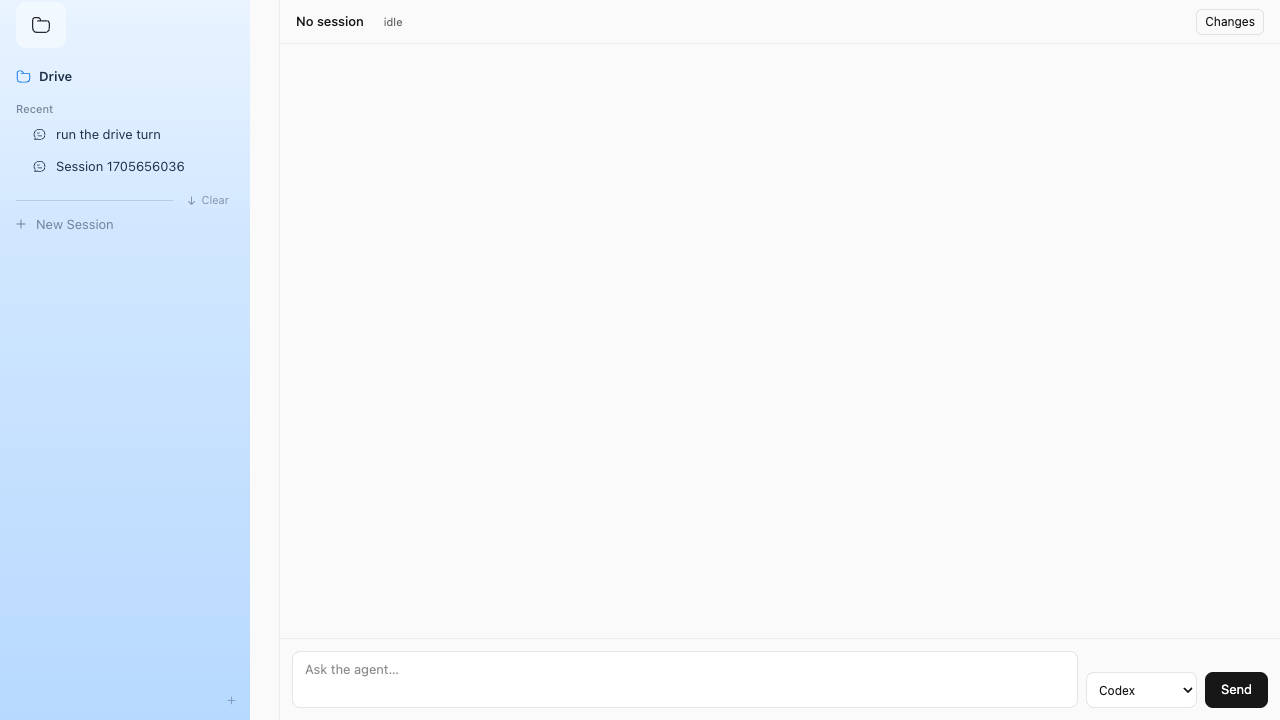
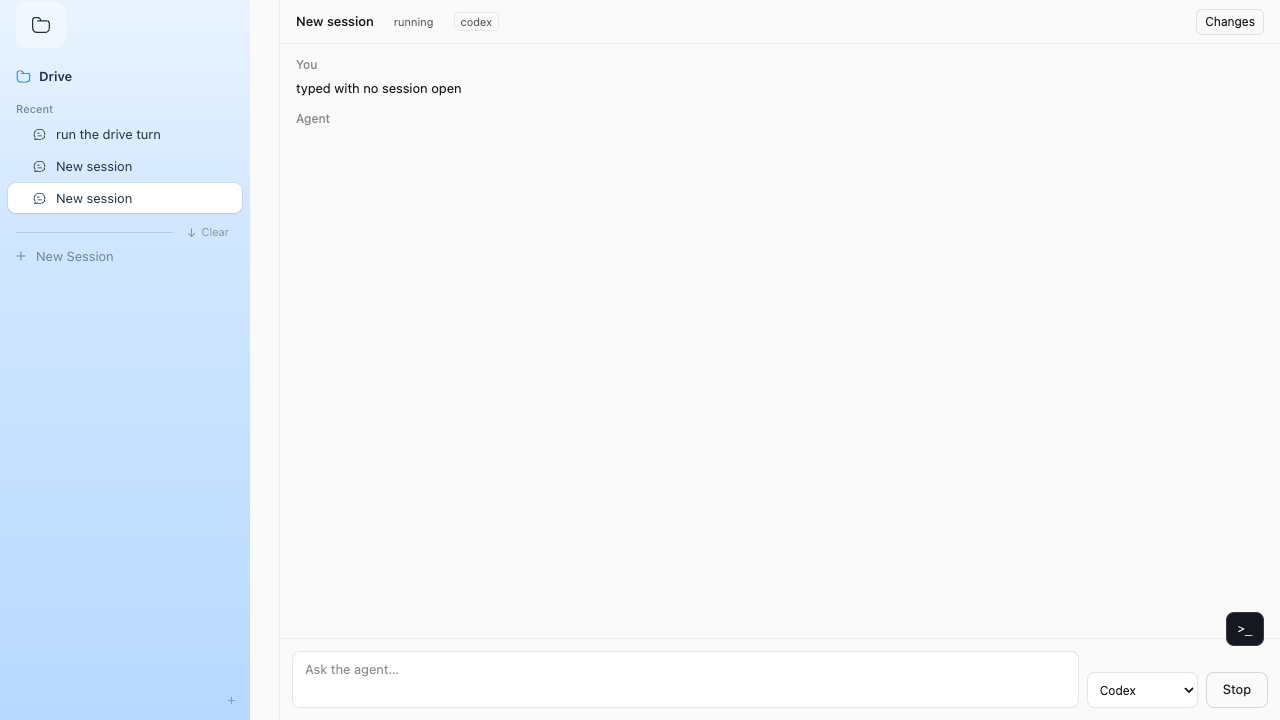
fix(ui): the empty page says what to do, and typing there does it
From a screenshot of the no-session page, four issues in one pass:

- The main area was a blank canvas that read as broken. It now carries an
  empty state naming both paths: type below, or pick from the sidebar.
- The composer pretended to work with no session behind it. Typing there
  now IS the path: the prompt creates a session in the active profile's
  workspace with the picked agent, navigates to it, and sends itself on
  arrival (sessionStorage across the navigation, retried until the socket
  can carry it) — the convention every LLM surface follows. The engine's
  FNV-1a id derivation is duplicated in the island, marked verbatim, so the
  page knows the session's id at creation instead of parsing it back out of
  the event stream it just caused.
- "Session 1260351047" is a hash, and a hash is not a name. Untitled
  sessions say "New session" until their first prompt names them.
- (craft, local branch) the window title rendered underneath the
  repositioned traffic lights in web-sidebar-material mode; the title is
  hidden there now — the app's name lives in the menu bar.

Two drive checks added; 18/18 green.

diff --git a/scripts/drive-page.ts b/scripts/drive-page.ts
@@ -192,6 +192,16 @@ await page.waitForURL(/\?profile=/, { timeout: 8000 })
 const sessionsAfterSwitch = [...harness.engine.current.sessions.values()]
 check('switching drivers starts a fresh session with the new agent', sessionsAfterSwitch.length === 2 && sessionsAfterSwitch.some(s => s.driverKind === 'codex'))
 
+// 11. Type-to-start: on a page with no session open, the empty state shows
+// and a typed prompt creates a session, navigates to it, and sends itself.
+const emptyStateShown = await page.evaluate(() => document.querySelector('[data-empty-state]') !== null)
+check('no-session page shows the empty state', emptyStateShown)
+await page.fill('[data-prompt]', 'typed with no session open')
+await page.click('[data-send]')
+await page.waitForURL(/\/s\/\d+/, { timeout: 8000 })
+await page.waitForFunction(() => (document.body.textContent ?? '').includes('typed with no session open'), undefined, { timeout: 8000 })
+check('type-to-start creates the session and delivers the prompt', harness.engine.current.sessions.size === 3)
+
 await page.screenshot({ path: join(import.meta.dir, 'page-drive.png') })
 await browser.close()
 harness.stop()

diff --git a/packages/server/src/views.ts b/packages/server/src/views.ts
@@ -76,8 +76,9 @@ export function viewProps(state: HarnessState, options: {
       .map(session => ({
         id: session.id,
         // A session with no title yet is named by its first prompt — the same
-        // thing a person would call it.
-        title: session.turns[0]?.prompt?.slice(0, 60) ?? `Session ${session.id}`,
+        // thing a person would call it. Before that it is simply new: the
+        // derived id is a hash, and a hash is not a name.
+        title: session.turns[0]?.prompt?.slice(0, 60) ?? 'New session',
         state: session.state,
       }))
 
@@ -117,7 +118,7 @@ export function viewProps(state: HarnessState, options: {
     activeSession: active
       ? {
           id: active.id,
-          title: active.turns[0]?.prompt?.slice(0, 60) ?? `Session ${active.id}`,
+          title: active.turns[0]?.prompt?.slice(0, 60) ?? 'New session',
           state: active.state,
           // Which agent this session runs — shown in the header and preselected
           // in the composer's picker, so switching has a visible ground truth.

diff --git a/packages/server/test/views.test.ts b/packages/server/test/views.test.ts
@@ -86,9 +86,9 @@ describe('viewProps — shaping the read model for the page', () => {
       .toBe('refactor the parser')
   })
 
-  it('falls back to an id when a session has no turns yet', () => {
+  it('calls a session with no turns new, not by its hash', () => {
     const props = viewProps(stateWith(), { serverUrl: 'ws://x/ws' })
-    expect(props.profiles.find(p => p.name === 'Stacks')!.sessions[0]!.title).toBe('Session 200')
+    expect(props.profiles.find(p => p.name === 'Stacks')!.sessions[0]!.title).toBe('New session')
   })
 
   it('shows a workspace by its last path segment, not the absolute path', () => {
